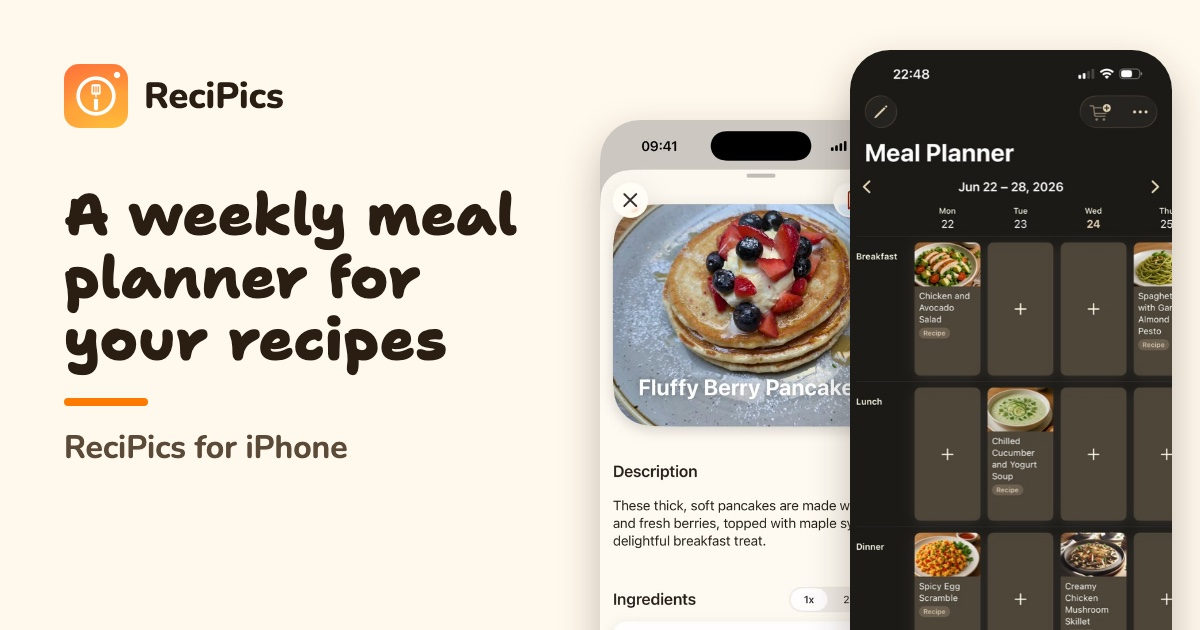
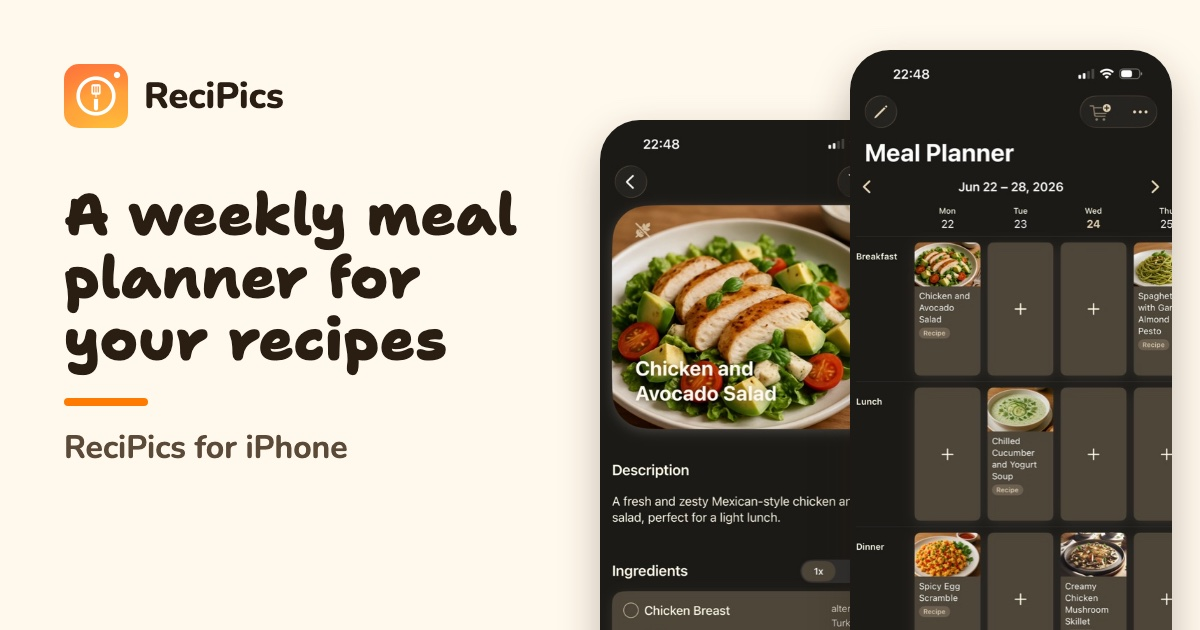
1029: critic round 2 (pill wording, plan privacy line, home learn-more links, EN step-1 screen, og cards)
Claude-Session: https://claude.ai/code/session_014MN2vDgghcvEeuRLMo1AfY

Changed region(s): [[0.4933, 0.181, 0.7092, 1.0]]

diff --git a/meal-planner-app.html b/meal-planner-app.html
@@ -85,11 +85,11 @@
     <a class="cta" href="https://apps.apple.com/app/apple-store/id6740248018?pt=10114007&amp;ct=web-mealplan-en&amp;mt=8">View on the App Store</a>
     <p class="eff"><a href="essensplaner-app.html" hreflang="de">Deutsch</a></p>
     <div class="shots">
-      <figure><img src="resources/import-en-recipe.jpg" width="560" height="1218" alt="ReciPics: saved recipe with ingredients, servings picker and menu button"><figcaption>1. Open a saved recipe</figcaption></figure>
+      <figure><img src="resources/recipe-details.jpg" width="460" height="1000" alt="ReciPics: saved recipe Chicken and Avocado Salad with ingredients and menu button"><figcaption>1. Open a saved recipe</figcaption></figure>
       <figure><img src="resources/meal-planner.jpg" width="460" height="1000" alt="ReciPics meal planner: one week with breakfast, lunch and dinner rows and planned recipes" loading="lazy"><figcaption>2. Put it on a day</figcaption></figure>
       <figure><img src="resources/grocery-list.jpg" width="460" height="1000" alt="ReciPics grocery list with ingredients, quantities and checkboxes" loading="lazy"><figcaption>3. Shop from the list</figcaption></figure>
     </div>
-    <p class="note">Real screens from the app. The example recipe is from our own site recipics.app.</p>
+    <p class="note">Real screens from the app.</p>
     <div class="card">
       <h2>The week at a glance</h2>
       <p>The Meal Planner tab shows one week as a grid: the days run across, your meals run down. Move between weeks with the arrows and tap an empty cell to plan that meal.</p>
@@ -118,7 +118,7 @@
       <h3>Is ReciPics only for iPhone?</h3>
       <p>Yes. ReciPics is an iPhone app for iOS 26 or later. There is no Android or web version.</p>
       <p class="note">Each photo scan uses the app's AI allowance, which is limited without Premium. For new users without a paid plan, the number of link imports per month is limited. The app shows how many you have left.</p>
-      <p class="note">Recipes from cookbooks and websites are usually protected by copyright. Use ReciPics for your private cookbook only, and don't share or publish imported recipes you have no right to share. To read a recipe, the photo and the text recognized on your iPhone, or the link, are sent to our servers and service providers, including our AI provider OpenAI (USA); see the <a href="privacy-page.html">Privacy</a> page. Your meal plan itself is not sent anywhere.</p>
+      <p class="note">Recipes from cookbooks and websites are usually protected by copyright. Use ReciPics for your private cookbook only, and don't share or publish imported recipes you have no right to share. To read a recipe, the photo and the text recognized on your iPhone, or the link, are sent to our servers and service providers, including our AI provider OpenAI (USA); see the <a href="privacy-page.html">Privacy</a> page. The content of your meal plan stays on your iPhone and is not sent to our servers.</p>
       <a class="cta" href="https://apps.apple.com/app/apple-store/id6740248018?pt=10114007&amp;ct=web-mealplan-en&amp;mt=8">Get ReciPics on the App Store</a>
       <p class="note">For iPhone with iOS 26 or later.</p>
     </div>

diff --git a/index.html b/index.html
@@ -245,6 +245,7 @@
           <span style="background:#fff;border:1.5px solid #F4E6CE;border-radius:999px;padding:9px 16px;font-weight:700;font-size:14px;color:#3B5A00;box-shadow:0 8px 18px -12px rgba(80,50,10,.4);">&#128072; Pick a date and meal</span>
           <span style="background:#fff;border:1.5px solid #F4E6CE;border-radius:999px;padding:9px 16px;font-weight:700;font-size:14px;color:#3B5A00;box-shadow:0 8px 18px -12px rgba(80,50,10,.4);">&#128257; Repeat daily or weekly</span>
         </div>
+        <p style="margin-top:18px;font-weight:700;font-size:17px;"><a href="meal-planner-app.html" style="color:#B04A00;text-decoration:none;display:inline-block;padding:10px 0;">How the meal planner works &rarr;</a></p>
       </div>
     </div>
 
@@ -256,9 +257,10 @@
         <p style="color:#6B5847;font-weight:500;font-size:17px;line-height:1.6;max-width:440px;">Add the ingredients from your planned meals to one grocery list and check things off as you move through the aisles.</p>
         <div style="display:flex;gap:10px;flex-wrap:wrap;margin-top:20px;">
           <span style="background:#fff;border:1.5px solid #F4E6CE;border-radius:999px;padding:9px 16px;font-weight:700;font-size:14px;color:#3B5A00;box-shadow:0 8px 18px -12px rgba(80,50,10,.4);">&#10024; From your meal plan</span>
-          <span style="background:#fff;border:1.5px solid #F4E6CE;border-radius:999px;padding:9px 16px;font-weight:700;font-size:14px;color:#3B5A00;box-shadow:0 8px 18px -12px rgba(80,50,10,.4);">&#129534; Only what&#39;s missing</span>
+          <span style="background:#fff;border:1.5px solid #F4E6CE;border-radius:999px;padding:9px 16px;font-weight:700;font-size:14px;color:#3B5A00;box-shadow:0 8px 18px -12px rgba(80,50,10,.4);">&#129534; Re-sync adds only new items</span>
           <span style="background:#fff;border:1.5px solid #F4E6CE;border-radius:999px;padding:9px 16px;font-weight:700;font-size:14px;color:#3B5A00;box-shadow:0 8px 18px -12px rgba(80,50,10,.4);">&#9989; Check as you shop</span>
         </div>
+        <p style="margin-top:18px;font-weight:700;font-size:17px;"><a href="grocery-list-from-recipes.html" style="color:#B04A00;text-decoration:none;display:inline-block;padding:10px 0;">How the grocery list works &rarr;</a></p>
       </div>
       <div style="flex:1 1 240px;min-width:0;display:flex;justify-content:center;">
         <div style="position:relative;">

diff --git a/essensplaner-app.html b/essensplaner-app.html
@@ -118,7 +118,7 @@
       <h3>Gibt es ReciPics nur fürs iPhone?</h3>
       <p>Ja. ReciPics ist eine iPhone-App ab iOS 26. Eine Android- oder Web-Version gibt es nicht.</p>
       <p class="note">Foto-Scans zählen zum KI-Kontingent der App, das ohne Premium begrenzt ist. Für neue Nutzer ohne bezahltes Paket ist die Zahl der Link-Importe pro Monat begrenzt. Die App zeigt dir, wie viele noch übrig sind.</p>
-      <p class="note">Rezepte aus Kochbüchern und von Websites sind in der Regel urheberrechtlich geschützt. Nutze ReciPics nur für dein privates Kochbuch und gib importierte Rezepte, die du nicht weitergeben darfst, nicht weiter und veröffentliche sie nicht. Um ein Rezept zu lesen, werden das Foto und der auf deinem iPhone erkannte Text oder der Link an unsere Server und Dienstleister gesendet, darunter unser KI-Anbieter OpenAI (USA); siehe <a href="privacy-page-de.html">Datenschutz</a>. Dein Essensplan selbst wird nirgendwohin gesendet.</p>
+      <p class="note">Rezepte aus Kochbüchern und von Websites sind in der Regel urheberrechtlich geschützt. Nutze ReciPics nur für dein privates Kochbuch und gib importierte Rezepte, die du nicht weitergeben darfst, nicht weiter und veröffentliche sie nicht. Um ein Rezept zu lesen, werden das Foto und der auf deinem iPhone erkannte Text oder der Link an unsere Server und Dienstleister gesendet, darunter unser KI-Anbieter OpenAI (USA); siehe <a href="privacy-page-de.html">Datenschutz</a>. Der Inhalt deines Essensplans bleibt auf deinem iPhone und wird nicht an unsere Server gesendet.</p>
       <a class="cta" href="https://apps.apple.com/app/apple-store/id6740248018?pt=10114007&amp;ct=web-mealplan-de&amp;mt=8">ReciPics im App Store laden</a>
       <p class="note">Für iPhone mit iOS 26 oder neuer.</p>
     </div>
